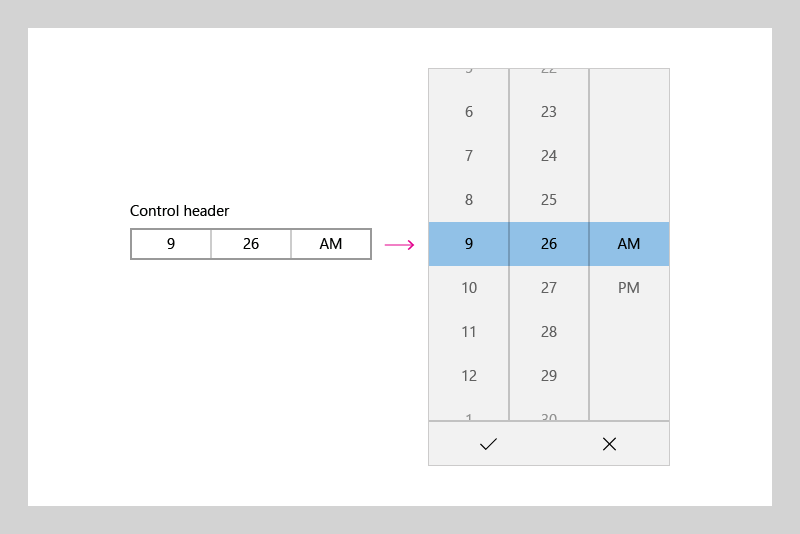
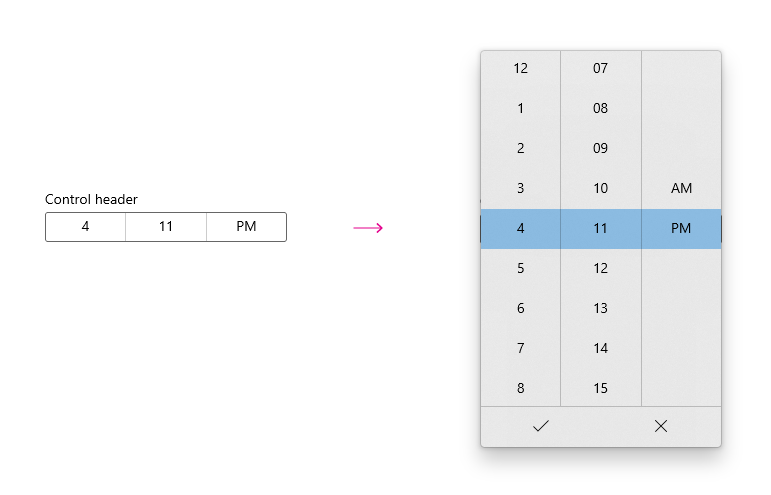
use 2 state images

diff --git a/windows-apps-src/design/controls-and-patterns/controls-by-function.md b/windows-apps-src/design/controls-and-patterns/controls-by-function.md
@@ -216,7 +216,7 @@ Design and how-to: [Calendar, date, and time controls](date-and-time.md)
 ### Date picker
 A control that lets a user select a date.
 
-![Date picker control](images/controls/date-picker.png)
+![Date picker control](images/controls_datepicker_expand.png)
 
 ```xaml
 <DatePicker Header="Arrival Date"/>
@@ -229,7 +229,7 @@ Design and how-to: [Calendar, date, and time controls](date-and-time.md)
 ### Time picker
 A control that lets a user set a time value.
 
-![TimePicker control](images/controls/time-picker.png) 
+![TimePicker control](images/controls_timepicker_expand.png)
 
 ```xaml
 <TimePicker Header="Arrival Time"/>
